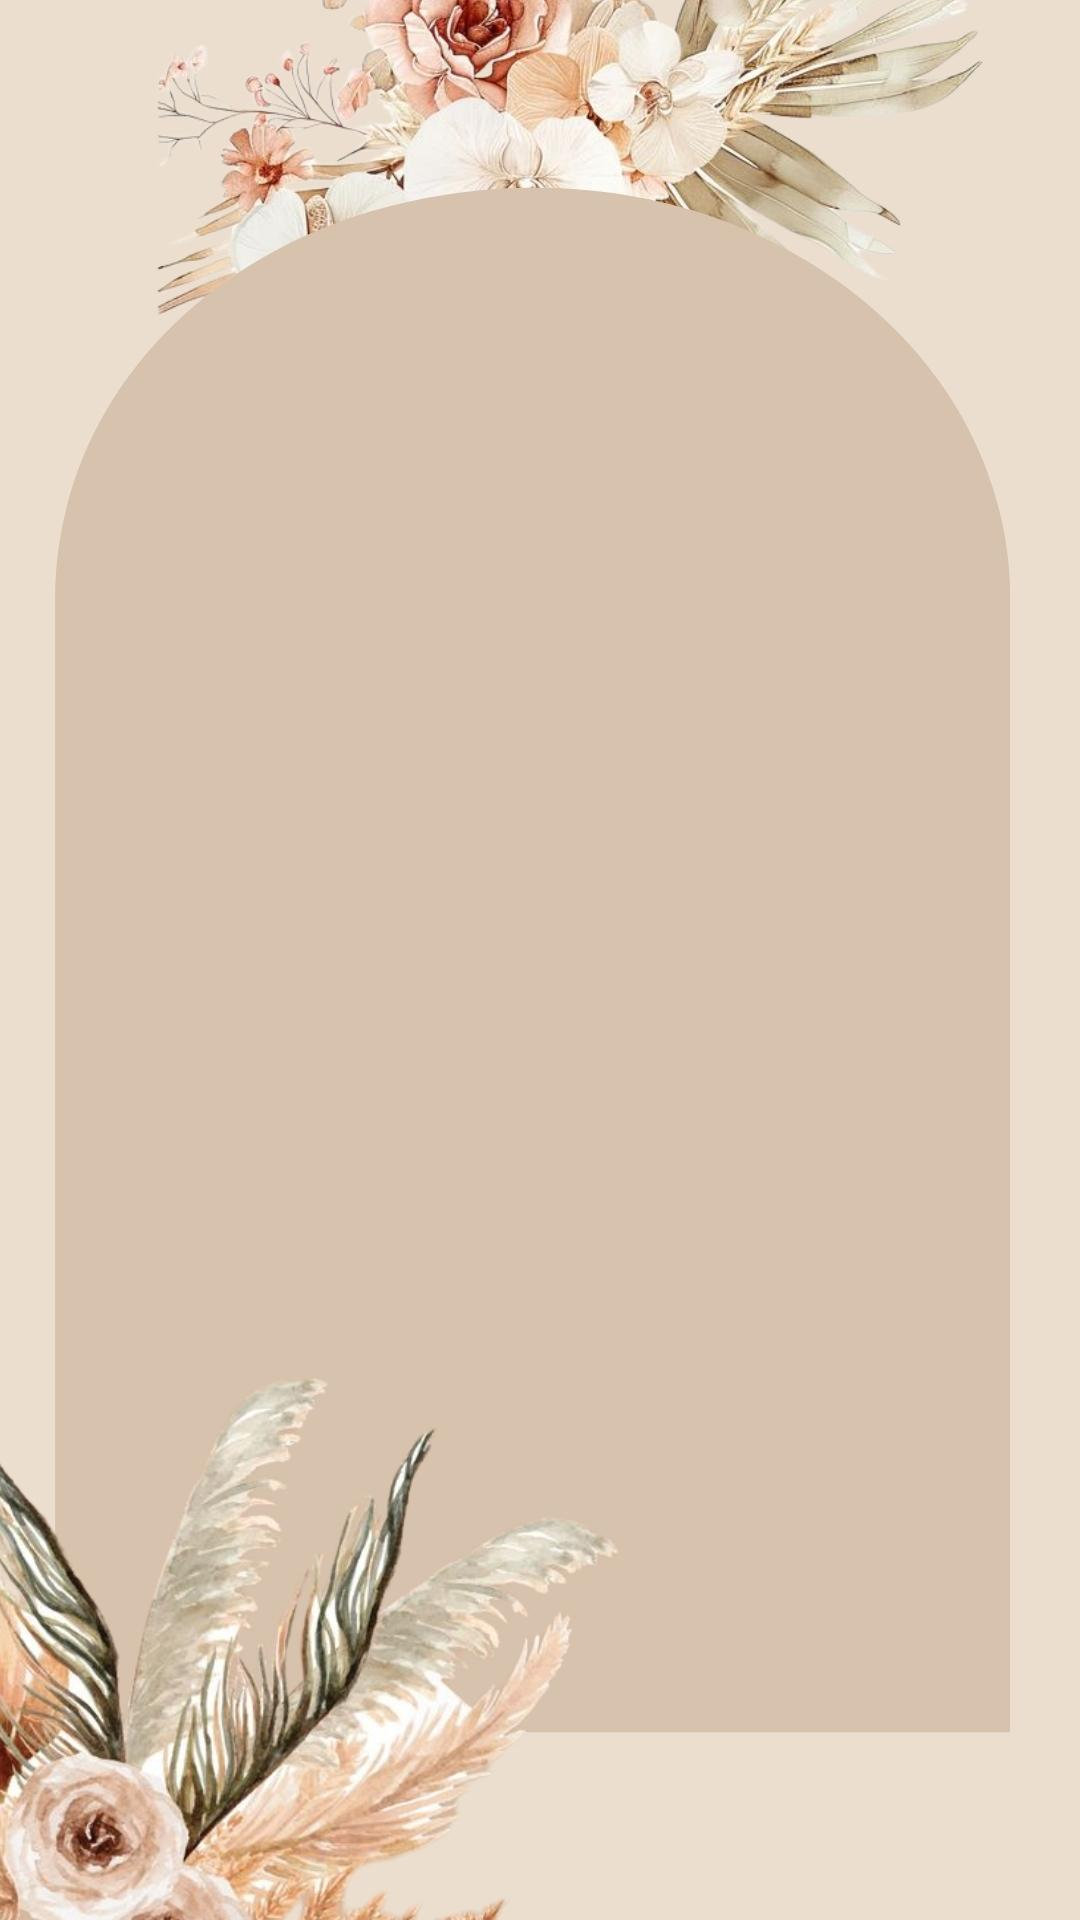
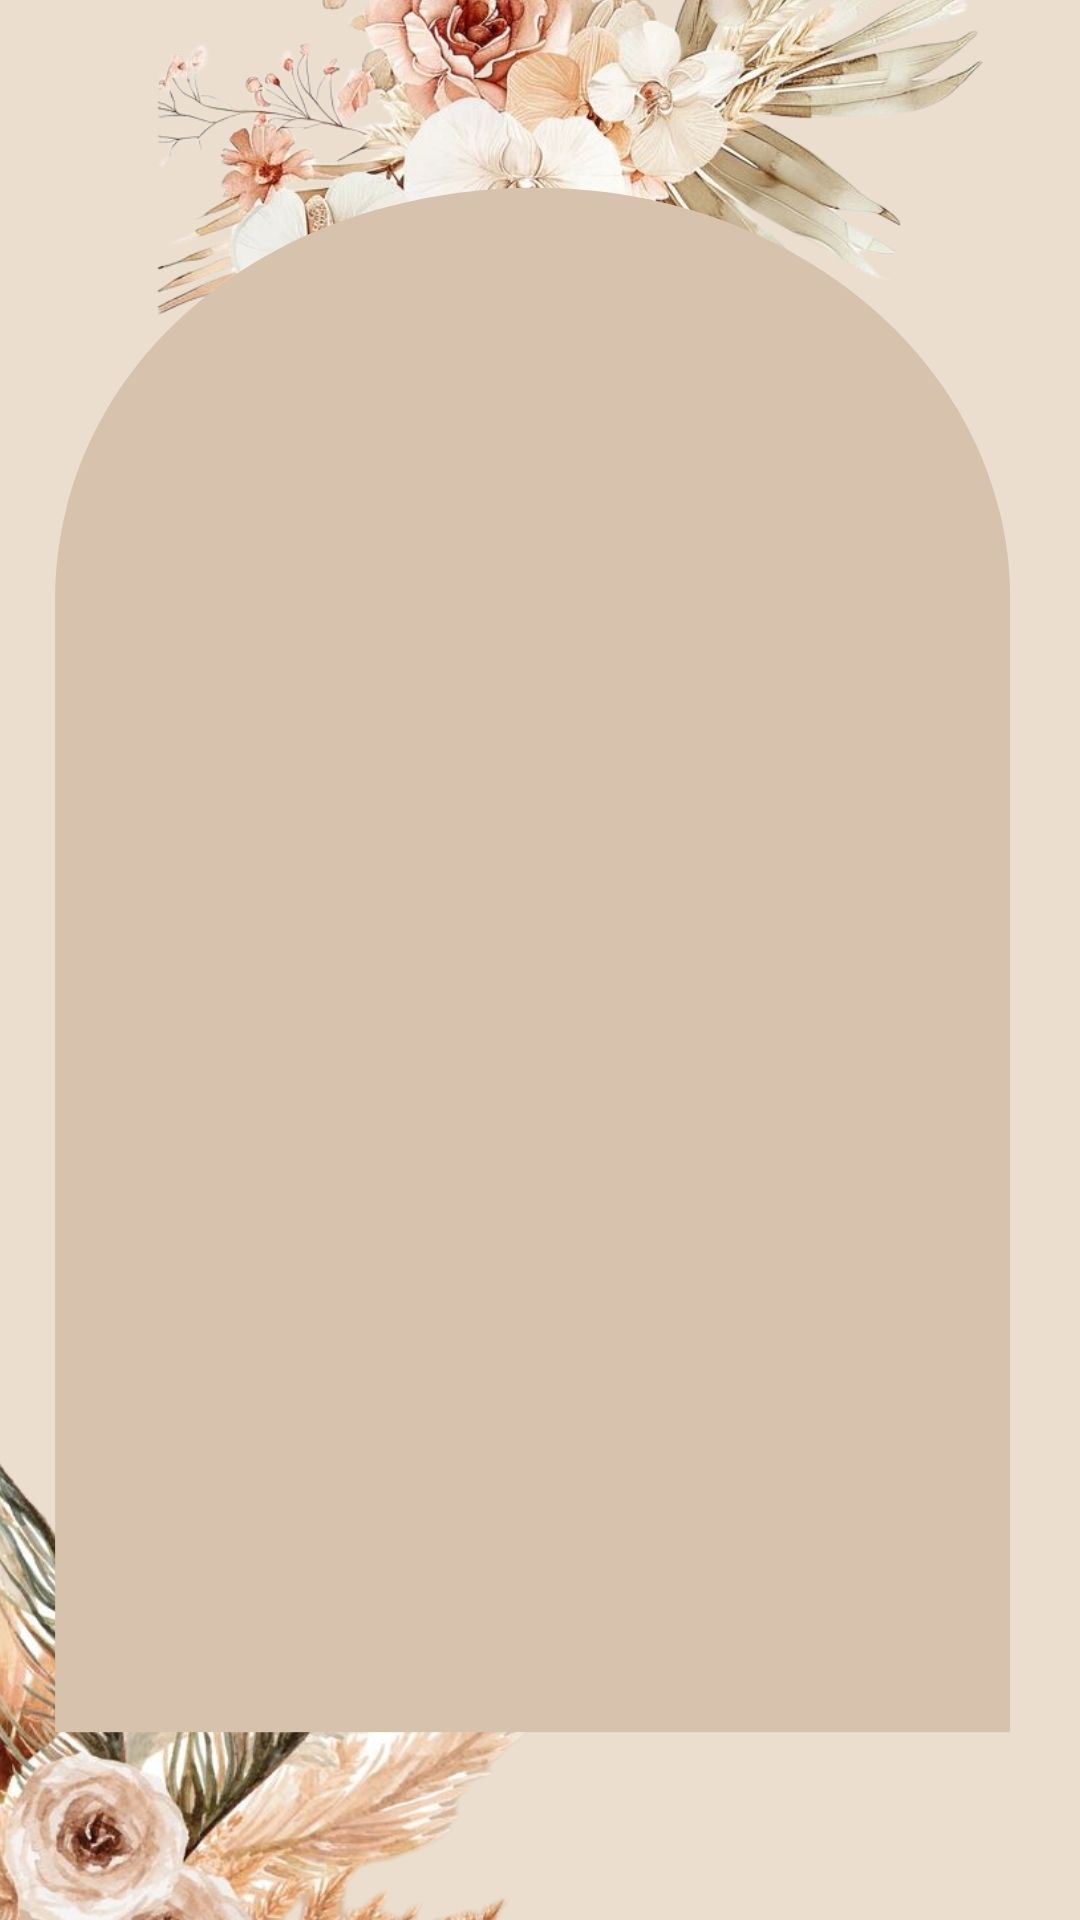
update

Changed region(s): [[0.0306, 0.7188, 0.55, 0.9062]]

diff --git a/templates-more/cream/cream.html b/templates-more/cream/cream.html
@@ -9,6 +9,7 @@
     <meta charset="UTF-8">
     <meta name="viewport" content="width=device-width, initial-scale=1.0, maximum-scale=1.0, user-scalable=no">
     <title>SapaUndang: {{nama_wanita}} {{nama_pria}} </title>
+    <link href="https://fonts.googleapis.com/css?family=Aladin" rel="stylesheet">
         <link href="https://fonts.googleapis.com/css?family=Rouge+Script" rel="stylesheet">
     <link href="https://fonts.googleapis.com/css?family=Baloo+Bhaina+2" rel="stylesheet">
     <link href="https://fonts.googleapis.com/css2?family=Bebas+Neue&family=Montserrat:wght@400;700&family=Great+Vibes&family=Playfair+Display:ital@1&display=swap" rel="stylesheet">
@@ -117,7 +118,7 @@
 .subtitle-top {
     font-size: 0.75rem;
     letter-spacing: 3px;
-    color: #b7ab9d;
+    color: #605548;
     text-transform: uppercase;
      text-align: center;
 }
@@ -125,7 +126,7 @@
 .main-title {
       font-family: 'Bilbo Swash Caps', cursive;
     font-size: 2.4rem;
-    color: #b7ab9d;
+    color: #605548;
     margin: 10px 0 20px;
      text-align: center;
 }
@@ -550,9 +551,19 @@
     padding: 0 30px;
     box-sizing: border-box;
 }
+.more-title {
+    font-family: 'Aladin', cursive;
+    color: #000000;
+    font-size: 2.2rem;
+    letter-spacing: 1px;
+    text-align: center;
+    
+    /* Ubah angka ini (misal dari 20px menjadi 40px) */
+    padding-top: 150px; 
+}
 
 .guest-label {
-    color: #847665;
+    color: #605548;
     font-size: 1.1rem;
     font-family: Andada, serif;
     margin-top: 30px;
@@ -560,7 +571,7 @@
 
 .template-cover-guest-name {
      font-family: Andada, serif;
-    color: #847665;
+    color: #605548;
     font-size: 0.9rem;
     letter-spacing: 2px;
     text-transform: uppercase;
@@ -571,22 +582,22 @@
 
 .template-cover-title {
    font-family: 'Rouge Script', cursive;
-    font-size: 3.5rem;
-    color: #847665;
+    font-size: 2.0rem;
+    color: #605548;
     margin: 10px 0;
     font-weight: 300;
     margin-top: 0px;
 }
 
 .event-date {
-    color: #847665;
+    color: #605548;
     margin-top: 5px;
     font-family: Andada, serif;
 }
 
 /* --- TOMBOL OPEN --- */
 .cover-open-btn {
-    background-color: #847665;
+    background-color: #605548;
     color: #dee6ee;
     border: none;
     padding: 5px 30px;
@@ -601,7 +612,7 @@
 
 .cover-open-btn:hover {
     transform: translateY(-3px) scale(1.05);
-    background-color: #b7ab9d;
+    background-color: #9b9185;
 }
 
 
@@ -784,7 +795,7 @@ body {
 
 .wedding-title {
      font-family: Andada, serif;
-     color: #847665;
+     color: #605548;
       font-size: 0.7rem;
     letter-spacing: 2px;
     text-transform: uppercase;
@@ -797,7 +808,7 @@ body {
     line-height: 1.2;    /* Mengatur kerapatan baris agar tidak terlalu renggang */
  font-size: 3rem;
     font-family: 'Rouge Script', cursive;
-    color: #847665;
+    color: #605548;
 }
 
 
@@ -874,14 +885,39 @@ body {
 
 /* Kontainer Utama (Bentuk Arch Atas-Bawah) */
 .content-detail-wrapper {
-   background-image: url("https://file.sapaundang.my.id/templates-more/cream/bg2.jpg");
+   background-image: url("https://file.sapaundang.my.id/templates-more/cream/bg3.jpg");
     width: 92%; /* Memberi sedikit jarak di layar mobile */
     max-width: 420px; 
     padding: 100px 25px; /* Kurangi padding samping jika foto terasa terlalu kecil */
-    border: 1.5px solid #847665;
+    border: 1.5px solid #605548;
     border-radius: 300px; /* Tetap melengkung atas dan bawah */
     margin: 0 auto;
     box-sizing: border-box;
+}
+
+.card-image-wrapper-cover {
+    /* Gunakan % agar lebar foto selalu proporsional dengan lebar kontainer */
+    width: auto; 
+    max-width: 150px; /* Ukuran maksimal di layar besar/MacBook M2 */
+    
+    /* Gunakan aspect-ratio agar bentuk oval tetap konsisten */
+    aspect-ratio: 2 / 3; 
+  
+    margin: 0 auto 0px;
+    border: 2px solid #605548;
+    border-radius: 150px; /* Membuat bentuk oval sempurna */
+    overflow: hidden;
+    position: relative;
+    box-shadow: 0 10px 25px rgba(0,0,0,0.1);
+}
+
+/* Pastikan gambar di dalamnya memenuhi bingkai tanpa distorsi */
+.couple-img-cover {
+      padding-top: -50px;
+    width: 100%;
+    height: 100%;
+    object-fit: cover;
+    display: block;
 }
 
 
@@ -895,7 +931,7 @@ body {
     aspect-ratio: 2 / 3; 
     
     margin: 0 auto 20px;
-    border: 2px solid #847665;
+    border: 2px solid #605548;
     border-radius: 150px; /* Membuat bentuk oval sempurna */
     overflow: hidden;
     position: relative;
@@ -932,7 +968,7 @@ body {
 .card-name {
     font-family: 'Rouge Script', cursive;
     font-size: 2.2rem;
-    color: #847665;
+    color: #605548;
     margin: 10px 0;
     font-weight: 400;
 }
@@ -959,7 +995,7 @@ body {
 .ampersand-text {
     font-family: 'Rouge Script', cursive;
     font-size: 48px;
-    color: #847665;
+    color: #605548;
     font-style: italic;
 }
 
@@ -976,7 +1012,7 @@ body {
     display: block;
     margin-top: 8px;
     font-weight: bold;
-    color: #847665;
+    color: #605548;
      text-align: center;
 }
 
@@ -1001,7 +1037,7 @@ body {
     min-height: 100vh;
     /* KUNCI TENGAH: margin auto kiri dan kanan */
     margin: 0 auto; 
-     background-image: url("https://file.sapaundang.my.id/templates-more/cream/bg2.jpg");
+     background-image: url("https://file.sapaundang.my.id/templates-more/cream/bg.jpg");
     box-shadow: 0 0 30px rgba(0,0,0,0.1);
     overflow: hidden;
     padding: 80px 20px;
@@ -1031,7 +1067,7 @@ body {
     width: 75px;
     height: 75px;
     background: rgba(255, 255, 255, 0.2); /* Memberikan sedikit kontras transparan */
-    border: 1px dashed #b7ab9d;
+    border: 1px dashed #605548;
     border-radius: 50%; 
     display: flex;
     flex-direction: column;
@@ -1049,7 +1085,7 @@ body {
     font-size: 1.4rem; /* Sedikit lebih besar agar mudah dibaca */
     font-weight: bold;
     margin: 0;
-    color: #b7ab9d; /* Putih agar kontras dengan background krem emas */
+    color: #605548; /* Putih agar kontras dengan background krem emas */
     line-height: 1;
 }
 
@@ -1057,7 +1093,7 @@ body {
     font-family: Andada, serif;
     font-size: 0.75rem;
     margin: 0;
-    color: #b7ab9d;
+    color: #605548;
     text-transform: uppercase;
     letter-spacing: 1px;
 }
@@ -1068,7 +1104,7 @@ body {
 /* --- Container Utama --- */
 /* --- Perbaikan Container Utama --- */
 .section-event {
-    background-color: #b7ab9d01;
+    background-color: #60554801;
     padding: 80px 0;
     text-align: center;
     color: #ffffff;
@@ -1099,8 +1135,8 @@ body {
       margin-left: auto;
     margin-right: auto;
 
- background-image: url("https://file.sapaundang.my.id/templates-more/cream/bg2.jpg");
-    border: 2px solid #847665;
+ background-image: url("https://file.sapaundang.my.id/templates-more/cream/bg3.jpg");
+    border: 2px solid #605548;
     border-radius: 300px;
     overflow: hidden;
     padding: 12px;
@@ -1155,7 +1191,7 @@ body {
 /* --- TOMBOL MAPS --- */
 .btn-maps-link {
     font-family: Andada, serif;
-    background-color: #847665;
+    background-color: #605548;
     color: #dee6ee;
     text-decoration: none;
     padding: 10px 25px;
@@ -1166,7 +1202,7 @@ body {
 }
 
 .btn-maps-link:hover {
-    background-color: #b7ab9d;
+    background-color: #9b9185;
     color: #dee6ee;
 }
 
@@ -1587,7 +1623,7 @@ max-width: 450px;
     margin-top: 50px; /* Ubah angka px sesuai keinginan Anda */
           margin-bottom: 50px;
     background-image: url("https://file.sapaundang.my.id/adatcoklatcream/bg.png");
-    border: 2px solid #847665;
+    border: 2px solid #605548;
     border-radius: 20px; 
     overflow: hidden;
     padding: 12px;
@@ -1868,7 +1904,7 @@ max-width: 450px;
     bottom: 0;
     
     /* 2. PINDAHKAN gambarnya ke sini */
-    background-image: url("https://file.sapaundang.my.id/templates-more/cream/bg.jpg");
+    background-image: url("https://file.sapaundang.my.id/templates-more/cream/bg2.jpg");
     background-size: cover;
     background-position: center;
     
@@ -1931,7 +1967,7 @@ max-width: 450px;
     padding: 10px;
     border: none;
     border-radius: 8px;
-    background: #b7ab9d;
+    background: #9b9185;
     color: rgb(255, 255, 255);
     cursor: pointer;
     font-size: 0.85rem;
@@ -1941,7 +1977,7 @@ max-width: 450px;
 }
 
 .template-status-btn.status-active {
-    background: #847665; /* Warna coklat tema */
+    background: #605548; /* Warna coklat tema */
     color: rgb(255, 255, 255);
     font-family: Andada, serif;
     
@@ -1952,7 +1988,7 @@ max-width: 450px;
 .btn-submit {
     width: 100%;
     padding: 15px;
-    background-color: #847665; /* Sesuai gambar referensi */
+    background-color: #605548; /* Sesuai gambar referensi */
     color: #dee6ee;
     border: none;
     font-family: Andada, serif;
@@ -1971,7 +2007,7 @@ max-width: 450px;
 }
 
 .btn-submit:hover {
-    background-color: #b7ab9d;
+    background-color: #605548;
     transform: translateY(-2px);
 }
 
@@ -2361,10 +2397,14 @@ background-image: url("https://file.sapaundang.my.id/templates-more/cream/bg.jpg
 
     <div class="template-cover-content-wrapper animate-down">
         <div class="pureday-content-locker">
-              <h1 class="wedding-title animate-left">Undangan</h1>
-              <h1 class="more-title animate-left">{{nama_wanita}}</h1><br>
+
+              <h1 class="more-title animate-left">{{nama_wanita}}</h1>
          
-            <h1 class="template-cover-title">{{nama_pria_lengkap}} <br> 
+           
+              <div class="card-image-wrapper-cover">
+                   <img src="{{cover}}" alt="cover" class="couple-img-cover">
+                </div>
+                 <h1 class="template-cover-title">{{nama_pria_lengkap}} 
                 <!-- & <br>{{nama_wanita}} -->
             </h1>
                <p class="guest-label">Kepada Yth:</p>
@@ -2525,7 +2565,7 @@ background-image: url("https://file.sapaundang.my.id/templates-more/cream/bg.jpg
     
     <div class="gift-container animate-left">
         <br>
-        <p class="subtitle-top2">WEDDING GIFT</p>
+        <!-- <p class="subtitle-top2">WEDDING GIFT</p> -->
         <h2 class="main-title2 font-cursive">Amplop Digital</h2>
 
         <p class="gift-text">
@@ -3091,8 +3131,8 @@ function updateMusicIcon(isPlaying) {
         }
         
         // Warna merah (aktif) jika sedang play
-        floatingMusicToggle.style.color = isPlaying ? '#847665' : '#847665';
-        floatingMusicToggle.style.borderColor = isPlaying ? '#847665' : '#847665';
+        floatingMusicToggle.style.color = isPlaying ? '#605548' : '#605548';
+        floatingMusicToggle.style.borderColor = isPlaying ? '#605548' : '#605548';
     }
 }
 

diff --git a/templates-more/adatjawahijaumerah3d/adatjawahijaumerah3d.html b/templates-more/adatjawahijaumerah3d/adatjawahijaumerah3d.html
@@ -2583,7 +2583,7 @@ background-image: url("https://file.puredayinvitation.com/adatjawahijaumerah3d/b
     
     <div class="gift-container animate-left">
         <br>
-        <p class="subtitle-top2">WEDDING GIFT</p>
+        <!-- <p class="subtitle-top2">WEDDING GIFT</p> -->
         <h2 class="main-title2 font-cursive">Amplop Digital</h2>
 
         <p class="gift-text">